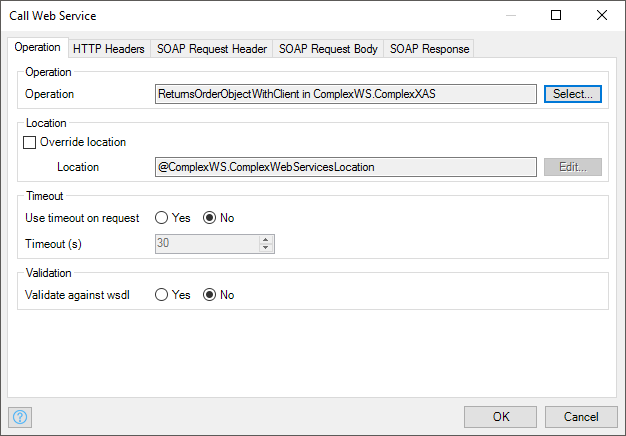
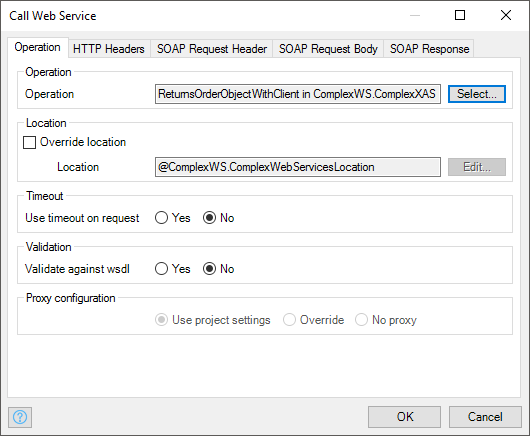
Integration changes for 7.15 (#1190)
* Feature/deprecated operation (#1)

* Is Deprecated ref guide

* Update open-api operation

* Update versioning doc

* Update version-rest-service.md

* Update open-api.md

* Update published-rest-operation.md

* Update version-rest-service.md

* Update open-api.md

* Documentation and example value in message definitions

* Updated documentation about proxy information in REST consume and about default content-type.

* A bit more detail about date/time format

* Updated the image for call-rest-action

* Publish a microflow as a REST operation

* A message definition now has a unique name

* Added documentation for deprecated web service client setting (#3)

* Added documentation for deprecated web service client setting

* Project setting 'Web service calls'

* Schema validation is not possible when using the new implementation for web service calls (#4)

* REST Access Tab (#2)

* Feature/deprecated operation (#1)

* Is Deprecated ref guide

* Update open-api operation

* Update versioning doc

* Update version-rest-service.md

* Update open-api.md

* Update published-rest-operation.md

* Update version-rest-service.md

* Update open-api.md

* REST Access Tab

* Typos

* Re-worded rest access

* Rest Access

* Update index

* Remove Allowed Roles

* Added documentation about proxy settings in webservice call action (#5)

* Review of release notes for 7.15

* Update call-rest-action.md

* Update call-web-service-action.md

* Update message-definition.md
[…]

diff --git a/content/refguide/module-security.md b/content/refguide/module-security.md
@@ -3,6 +3,7 @@ title: "Module Security"
 parent: "modules"
 ---
 
+## 1 Introduction
 
 {{% alert type="info" %}}
 
@@ -10,17 +11,15 @@ For more general information on security, see [Security](security).
 
 {{% /alert %}}
 
-
-
 Within a module you can define module roles and specify security settings of those module roles for forms, microflows, entities and data sets.
 
-## Form Access
+## 2 Form Access
 
 Form Access defines for each module role which forms users with this module role can access. The menu bar is optimized so that it only shows forms and microflows that the user has access to.
 
 Form access takes the shape of a large matrix showing forms and modules roles. For each combination you can indicate whether or not the module role has access to the form. You can also edit this information in a [form](page) using the property 'Visible for'.
 
-## Microflow Access
+## 3 Microflow Access
 
 Microflow Access defines which microflows can be executed by users with a certain module role. The menu bar is optimized so that it only shows forms and microflows that the user has access to.
 
@@ -32,18 +31,27 @@ Note that these roles are only checked when the microflow is executed from the c
 
 {{% /alert %}}
 
-## Entity Access
+## 4 Entity Access
 
 Entity Access defines for each module role whether users with this role are authorized to Create, Read, Write and/or Delete objects of the entity.
 
 Entity Access takes the form of a large matrix showing access rules that apply to entities. Each access rule in turn applies to a set of module roles. See [Access Rules](access-rules) for more information.
 
-## OData Access 
+## 5 OData Access 
 
 OData Access defines for each module role whether users with this role are authorized to access OData resources for each OData service exposed within the module.
-OData access takes the shape of a large matrix showing published OData services and modules roles. For each combination you can indicate whether or not the module role has access to the published OData service. You can also edit this information in a [published OData services](published-odata-services) using the property 'Allowed roles' in the 'Settings' tab.
 
-## Data Set Access
+OData Access takes the shape of a large matrix showing published OData services and modules roles. For each combination you can indicate whether or not the module role has access to the published OData service. You can also edit this information in [published OData services](published-odata-services) using the **Allowed roles** property in the **Settings** tab.
+
+## 6 REST Access
+
+REST Access defines for each module role whether users with this role are authorized to access REST resources for each REST service exposed within the module. 
+
+REST Access takes the shape of a large matrix showing published REST services and modules roles. For each REST service, you can indicate whether or not the module role has access to the published REST service.
+
+The **REST Access** tab is visible only when the service has the security set to require authentication. For more information, see [published REST services](published-rest-services).
+
+## 7 Data Set Access
 
 Data Set Access shows for each [data set](data-sets) (used for [reporting](report-widgets)) and each module role which access the module role has to the data set.
 
@@ -60,13 +68,11 @@ The ranges are defined in the parameters of the data set. Whether values in thes
 
 {{% /alert %}}
 
-
-
-# Module Role
+## 8 Module Role
 
 The module roles define which roles users of this module can have. See [Security](security) for more information on module roles and [user roles](user-roles) and their relation.
 
-## Name
+## 9 Name
 
 The name of a module role is used to refer to the module role from other elements in your model.
 
@@ -76,6 +82,6 @@ End users do not see the names of module roles. End users (if they create or vie
 
 {{% /alert %}}
 
-## Documentation
+## 10 Documentation
 
 The documentation of a module role is there only for the convenience of the people who use the modeler; it is not visible for the end users.

diff --git a/content/refguide/call-web-service-action.md b/content/refguide/call-web-service-action.md
@@ -35,7 +35,7 @@ When calling a web service using a call-web-service activity, the location of th
 
 ### 3 Location
 
-If you override the location, this property defines the location where to call the web service. The location needs to be entered using [expressions](expressions). The microflow expression should result in a valid URL string.
+If you override the location, this property defines the location where to call the web service. The location needs to be entered using an [expression](expressions). The microflow expression should result in a valid URL string.
 
 ### 3.1 Use Timeout on Request
 
@@ -57,13 +57,41 @@ Setting this setting to yes can greatly decrease performance!
 
 {{% alert type="warning" %}}
 
-When consuming wsdl that uses encoding turning on validation will lead to consistency error because it is not WS-I compliant.
+When consuming a WSDL that uses encoding, turning on validation will lead to a consistency error, because it is not WS-I compliant.
+
+{{% /alert %}}
+
+When this setting is disabled, schema validation is not possible. This happens in two cases: 1) When you have configured the [consumed web service](consumed-web-service) to send binary data as attachments, and 2) when you have configured web service calls to use the new (optimized) implementation in the [project's runtime settings](project-settings).
+
+{{% alert type="info" %}}
+
+The new (optimized) implementation feature was introduced in version 7.15.0.
 
 {{% /alert %}}
 
 _Default value:_ No
 
 ![](attachments/19202819/19399021.png)
+
+### 4 Proxy configuration
+
+{{% alert type="info" %}}
+
+This feature was introduced in version 7.15.0.
+
+This feature is only available when you have configured web service calls to use the new (optimized) implementation in the [project's runtime settings](project-settings).
+
+{{% /alert %}}
+
+In almost all cases, you can ignore this setting. **Use project settings** is a good default value.
+
+If desired, you can configure whether to use a proxy for the request. These are the choices:
+
+* **Use project settings** – use whatever settings are defined at the project level (default)
+* **Override** – override the project-level settings for this action
+* **No proxy** – do not use a proxy for this action, even if there is a proxy configured at the project level
+
+When you select **Override**, you can configure dynamically whether to use a proxy. You then supply the host, port, username, and password settings for the proxy.
 
 ## 4 HTTP Headers
 

diff --git a/content/refguide/call-rest-action.md b/content/refguide/call-rest-action.md
@@ -23,8 +23,25 @@ The **HTTP method** property defines the HTTP method to use when calling a REST 
 
 ### 2.2 Timeout
 
-Set **Use timeout on request** to **Yes** to be able specify how long the Call REST activity should wait for the REST endpoint to respond. If the REST endpoint has not responded after the number of seconds in **Timeout (s)**, an exception will be 
-thrown and the microflow will roll back or go into your custom error handler.
+Set **Use timeout on request** to **Yes** to be able specify how long the Call REST activity should wait for the REST endpoint to respond. If the REST endpoint has not responded after the number of seconds in **Timeout (s)**, an exception will occur and the microflow will roll back or go into your custom error handler.
+
+### 2.3 Proxy Configuration
+
+{{% alert type="info" %}}
+
+This feature was introduced in version 7.15.0.
+
+{{% /alert %}}
+
+In almost all cases, you can ignore this setting. **Use project settings** is a good default value.
+
+If desired, you can configure whether to use a proxy for the request. These are the choices:
+
+* **Use project settings** – use whatever settings are defined at the project level (default)
+* **Override** – override the project-level settings for this action
+* **No proxy** – do not use a proxy for this action, even if there is a proxy configured at the project level
+
+When you select **Override**, you can configure dynamically whether to use a proxy. You then supply the host, port, username, and password settings for the proxy.
 
 ## 3 HTTP Headers
 
@@ -66,7 +83,7 @@ If the [export mapping](export-mappings) requires an input, you can select a var
 
 #### 4.1.4 Content Type
 
-If the [export mapping](export-mappings) is based on a message definition, it can export both XML and JSON. Choose the type of output you want.
+If the [export mapping](export-mappings) is based on a message definition, it can export both XML and JSON. Choose the type of output you want. **Content-Type header** is not set by default. To set it, use the **Custom HTTP Headers** tab.
 
 ### 4.2 Binary for the Entire Request
 

diff --git a/content/refguide/published-rest-operation.md b/content/refguide/published-rest-operation.md
@@ -79,7 +79,11 @@ If the microflow throws an unhandled exception, the response is **500: Internal 
 
 If security is enabled, then then microflow needs to have at least one role configured to be accessible.
 
-## 2.5 Parameters
+### 2.5 Deprecated
+
+If you check this box, the operation is marked as deprecated in the service's [OpenApi (Swagger) documentation page](published-rest-services#interactive-documentation). This tells clients not to use it anymore.
+
+### 2.6 Parameters
 
 {{% alert type="info" %}}
 
@@ -93,7 +97,7 @@ An operation parameter can be either a query parameter, a path parameter, or a b
 
 The parameter data type is determined by the microflow of the operation. New parameters that are not yet part of the microflow will have *(Not set)* as their data type.
 
-### 2.5.1 Import mapping
+### 2.6.1 Import Mapping
 
 {{% alert type="info" %}}
 
@@ -109,7 +113,7 @@ Valid requests need to contain a *Content-Type* header. See [Table 1: Recognized
 
 The import mapping is also used to generate object schemas for operation responses in [OpenAPI (Swagger) documentation page](published-rest-services#interactive-documentation) based on [JSON Schema](published-rest-service-json-schema)
 
-### 2.6 Response
+### 2.7 Response
 
 {{% alert type="info" %}}
 
@@ -119,7 +123,11 @@ Support for **Export mapping and models in OpenAPI (Swagger)** was added in 7.14
 
 This shows information about the response of the operation. You can see the type of the microflow result as well as export mapping applied to it (if any).
 
-#### 2.6.1 Export Mapping
+#### 2.7.1 Type
+
+This shows the result type of the microflow.
+
+#### 2.7.2 Export Mapping
 
 When the microflow returns an object or a list of objects, you need to specify how this result is mapped to JSON or XML. Select an export mapping that takes the result of the microflow as input.
 

diff --git a/content/refguide/message-definition.md b/content/refguide/message-definition.md
@@ -17,17 +17,25 @@ A message definition can be used for both JSON and XML, and it can be used for b
 
 ## 2 General
 
-### 2.1 Source Entity
+### 2.1 Name
+
+The name of the message definition.
+
+### 2.2 Entity
 
 Select an entity on which to base the message definition. Using this message definition, you will be able to export and import this entity type and lists of this entity type.
 
-### 2.2 Structure
+### 2.3 Structure
 
 The structure tree shows the attributes and some of the associations of the entity. Check all the attributes and associations that are part of the message.
 
 The **External name** is the name of the XML node or the JSON property. By default, it's the name of the attribute (for attributes) or entity (for associations). When the occurrence is `0..*`, it's the external item name plus the letter `s`.
 
 The **External item name** is only relevant for XML, and only when the occurrence is `0..*`. It is used for the XML node that represents a single item. By default, it's the entity name.
+
+As an **Example value**, you can specify a typical value for an attribute. When you use the message definition in a published REST service, this value shows up in the [interactive documentation](published-rest-services#interactive-documentation). Note that you specify a date/time value in the format `year-month-day` or `year-month-day hour:minute:second`.
+
+The **Documentation** of an entity, attribute, or association also shows up in the [interactive documentation](published-rest-services#interactive-documentation).
 
 ## 3 Documentation
 

diff --git a/content/refguide/publish-microflow-as-rest-operation.md b/content/refguide/publish-microflow-as-rest-operation.md
@@ -1,0 +1,32 @@
+---
+title: "Publishing a Microflow as REST Operation"
+parent: "published-rest-services"
+---
+
+{{% alert type="info" %}}
+
+This feature was introduced in version 7.15.0.
+
+{{% /alert %}}
+
+## 1 Introduction
+
+To publish a microflow as a REST service operation, right-click anywhere in the whitespace of the microflow and select **Publish as REST service operation**.
+
+Notice that if the microflow takes more than one parameter of an object or list type, it can't be published as a REST operation. If you try to publish it, there will be a consistency error.
+
+## 2 Choosing a Resource
+
+After you have clicked **Publish as REST service operation**, you will need to select a resource under which to publish the microflow. There are several options:
+
+* If you already have a service and a resouce under which to publish the microflow, select it and click **Select**
+* If you already have a service but you want to create a resource, select the service and click **New**
+* If you want to create a new service, select a module or a folder and click **New**
+
+The suggested name of the resource is the entity of a parameter of the microflow, or the entity result of the microflow.
+
+## 3 Editing the Operation
+
+After you have selected or created a service and a resource, you can edit the operation.
+
+The suggested value for **Method** is **POST** when the microflow takes an object or list parameter. Otherwise, it is **GET**.

diff --git a/content/refguide/project-settings.md b/content/refguide/project-settings.md
@@ -154,6 +154,16 @@ For more details on migration, see [Uniqueness Constraint Migration](uniqueness-
 
 Falling back to the **Runtime** option will remove the unique constraints from the database, and uniqueness rules will not be checked at the database level anymore. Hence, data accuracy cannnot be guaranteed at the highest level, especially in the case of high concurrency transactions.
 
+### 3.13 Web Service Calls
+
+{{% alert type="info" %}}
+
+This setting was added in version 7.15
+
+{{% /alert %}}
+
+We optimize the way web services are called, which means that you can use custom proxy settings for each web service call. However, this implementation does not support schema validation yet. Neither does it support complex schemas that use a policy reference with an algorithm suite. This configuration option allows you to use the old implementation, in case you need one of these features.
+
 ## 4 Modeler
 
 These settings determine the behavior of the Modeler for this project. The settings apply to everyone that is working on this project.

diff --git a/content/howto/integration/version-rest-service.md b/content/howto/integration/version-rest-service.md
@@ -94,7 +94,7 @@ Note that this is a breaking change (because it is not backwards compatible), so
 
 After you have created a new version of your service, you should mark the old version as deprecated.
 
-You do that by adding **(deprecated)** to the service name. Write a description of why it was deprecated and what the new version number is in the **Public documentation** of the service.
+You do that by adding **(deprecated)** to the service name. Write a description of why it was deprecated and what the new version number is in the **Public documentation** of the service. You should also mark all operations that changed as deprecated. In this way, clients can see which operations have changed from one version to the next.
 
 You should let clients know that the this version is deprecated (for instance, by publishing release notes).
 

diff --git a/content/refguide/published-rest-services.md b/content/refguide/published-rest-services.md
@@ -17,6 +17,8 @@ Add a [published REST service](published-rest-service) to expose your entities a
 
 For an overview of the available options when you add a published  service, see [Published REST Service](published-rest-service).
 
+To publish a microflow as a REST operation, right-click anywhere in the editor and select [Publish as REST service operation](publish-microflow-as-rest-operation).
+
 ## <a name="authorization"></a>3 Authentication
 
 Published REST services are secured with basic authentication. This is automatically applied when you set the [security level](project-security) of your app to **Prototype / demo**  or **Production**. 

diff --git a/content/refguide/open-api.md b/content/refguide/open-api.md
@@ -53,3 +53,4 @@ Each operation generates an `Operation` object:
 | `description` | The [public documentation description](published-rest-operation#description) of the operation. |
 | `parameters` | The path and query parameters. For the POST, PUT, PATCH, and OPTIONS methods, there is also a body parameter. |
 | `responses` | The OK response. If security is enabled, this is also the unauthorized response. |
+| `deprecated` | Set to true when the operation is marked as deprecated. |
